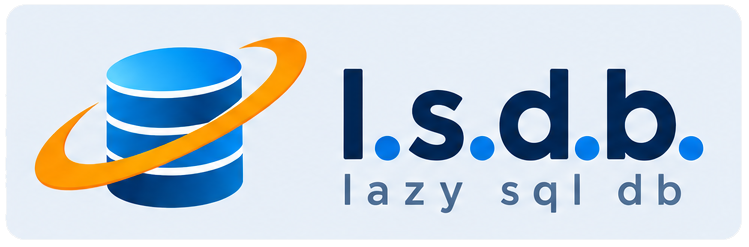
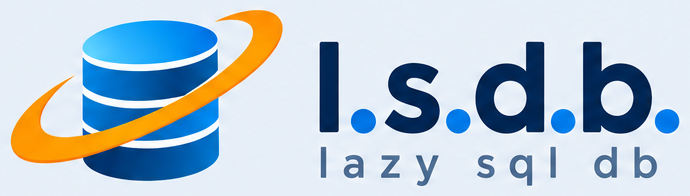
themes

diff --git a/renderer/src/components/MenuBar.jsx b/renderer/src/components/MenuBar.jsx
@@ -5,24 +5,52 @@ const MenuDropdown = ({ label, items }) => {
     const [isOpen, setIsOpen] = useState(false);
     const [openSubmenu, setOpenSubmenu] = useState(null);
     const dropdownRef = useRef(null);
+    const submenuTimeoutRef = useRef(null);
+
+    const clearSubmenuTimeout = () => {
+        if (submenuTimeoutRef.current) {
+            clearTimeout(submenuTimeoutRef.current);
+            submenuTimeoutRef.current = null;
+        }
+    };
 
     useEffect(() => {
         const handleClickOutside = (event) => {
             if (dropdownRef.current && !dropdownRef.current.contains(event.target)) {
+                clearSubmenuTimeout();
                 setIsOpen(false);
                 setOpenSubmenu(null);
             }
         };
 
         document.addEventListener('mousedown', handleClickOutside);
-        return () => document.removeEventListener('mousedown', handleClickOutside);
+        return () => {
+            document.removeEventListener('mousedown', handleClickOutside);
+            clearSubmenuTimeout();
+        };
     }, []);
+
+    const handleMouseEnterSubmenu = (index) => {
+        clearSubmenuTimeout();
+        setOpenSubmenu(index);
+    };
+
+    const handleMouseLeaveSubmenu = () => {
+        clearSubmenuTimeout();
+        submenuTimeoutRef.current = setTimeout(() => {
+            setOpenSubmenu(null);
+        }, 250);
+    };
 
     return (
         <div className="relative" ref={dropdownRef}>
             <button
                 className={`px-3 py-1 text-sm text-[var(--menu-text)] hover:bg-[var(--menu-hover-bg)] hover:text-[var(--menu-hover-text)] rounded flex items-center gap-1 transition-colors ${isOpen ? 'bg-[var(--menu-hover-bg)] text-[var(--menu-hover-text)]' : ''}`}
-                onClick={() => setIsOpen(!isOpen)}
+                onClick={() => {
+                    clearSubmenuTimeout();
+                    setIsOpen(!isOpen);
+                    setOpenSubmenu(null);
+                }}
             >
                 {label}
             </button>
@@ -34,10 +62,15 @@ const MenuDropdown = ({ label, items }) => {
                             <div
                                 key={index}
                                 className="relative"
-                                onMouseEnter={() => setOpenSubmenu(index)}
-                                onMouseLeave={() => setOpenSubmenu(null)}
+                                onMouseEnter={() => handleMouseEnterSubmenu(index)}
+                                onMouseLeave={handleMouseLeaveSubmenu}
                             >
                                 <button
+                                    type="button"
+                                    onClick={() => {
+                                        clearSubmenuTimeout();
+                                        setOpenSubmenu(openSubmenu === index ? null : index);
+                                    }}
                                     className="w-full text-left px-4 py-2 text-sm text-[var(--menu-text)] hover:bg-[var(--menu-hover-bg)] hover:text-[var(--menu-hover-text)] transition-colors flex items-center justify-between"
                                 >
                                     {item.label}
@@ -45,31 +78,42 @@ const MenuDropdown = ({ label, items }) => {
                                 </button>
 
                                 {openSubmenu === index && (
-                                    <div className="absolute left-full top-0 ml-1 w-40 bg-[var(--menu-dropdown-bg)] border border-[var(--menu-dropdown-border)] rounded shadow-lg py-1">
-                                        {item.submenu.map((subItem, subIndex) => (
-                                            <button
-                                                key={subIndex}
-                                                className="w-full text-left px-4 py-2 text-sm text-[var(--menu-text)] hover:bg-[var(--menu-hover-bg)] hover:text-[var(--menu-hover-text)] transition-colors flex items-center justify-between"
-                                                onClick={() => {
-                                                    subItem.onClick?.();
-                                                    setIsOpen(false);
-                                                    setOpenSubmenu(null);
-                                                }}
-                                            >
-                                                <span className="capitalize">{subItem.label}</span>
-                                                {subItem.isActive && <Check size={14} className="text-blue-400" />}
-                                            </button>
-                                        ))}
+                                    <div
+                                        className="absolute left-full top-0 -ml-1 pl-2 w-44 z-50"
+                                        onMouseEnter={() => handleMouseEnterSubmenu(index)}
+                                        onMouseLeave={handleMouseLeaveSubmenu}
+                                    >
+                                        <div className="w-40 bg-[var(--menu-dropdown-bg)] border border-[var(--menu-dropdown-border)] rounded shadow-lg py-1">
+                                            {item.submenu.map((subItem, subIndex) => (
+                                                <button
+                                                    key={subIndex}
+                                                    type="button"
+                                                    className="w-full text-left px-4 py-2 text-sm text-[var(--menu-text)] hover:bg-[var(--menu-hover-bg)] hover:text-[var(--menu-hover-text)] transition-colors flex items-center justify-between"
+                                                    onClick={() => {
+                                                        clearSubmenuTimeout();
+                                                        subItem.onClick?.();
+                                                        setIsOpen(false);
+                                                        setOpenSubmenu(null);
+                                                    }}
+                                                >
+                                                    <span className="capitalize">{subItem.label}</span>
+                                                    {subItem.isActive && <Check size={14} className="text-blue-400" />}
+                                                </button>
+                                            ))}
+                                        </div>
                                     </div>
                                 )}
                             </div>
                         ) : (
                             <button
                                 key={index}
+                                type="button"
                                 className="w-full text-left px-4 py-2 text-sm text-[var(--menu-text)] hover:bg-[var(--menu-hover-bg)] hover:text-[var(--menu-hover-text)] transition-colors"
                                 onClick={() => {
+                                    clearSubmenuTimeout();
                                     item.onClick?.();
                                     setIsOpen(false);
+                                    setOpenSubmenu(null);
                                 }}
                             >
                                 {item.label}

diff --git a/renderer/src/App.jsx b/renderer/src/App.jsx
@@ -23,6 +23,7 @@ import { useQueryTree } from './hooks/useQueryTree';
 import { queryPetruzApi } from './services/queryPetruzApi';
 import MarkdownComment from './components/MarkdownComment';
 import lsdbDarkLogo from './assets/lsdb_dark.png';
+import lsdbLightLogo from './assets/lsdb_light.png';
 
 function App() {
     // Theme
@@ -159,7 +160,7 @@ function App() {
                         style={{ width: layout.sidebarWidth }}
                     >
                         <div className="p-4 border-b border-tree-border flex justify-between items-center bg-tree-header-bg">
-                            <img src={lsdbDarkLogo} alt="l.s.d.b" className="h-9 w-auto max-w-[200px] object-contain select-none" />
+                            <img src={theme === 'light' ? lsdbLightLogo : lsdbDarkLogo} alt="l.s.d.b" className="h-9 w-auto max-w-[200px] object-contain select-none" />
                             <div className="flex gap-1">
                                 <button onClick={() => modals.setModal({ type: 'ADD_FOLDER' })} className="text-tree-text-muted hover:text-tree-text" title="Add Folder">+</button>
                             </div>
